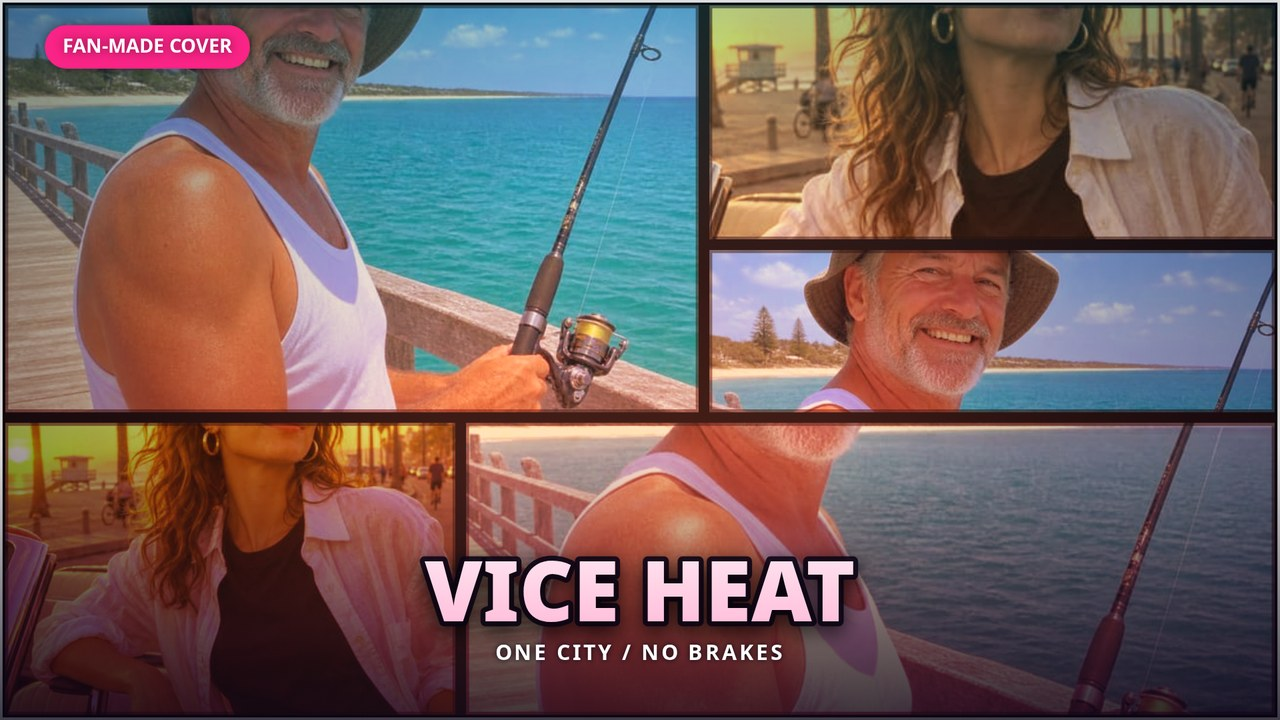
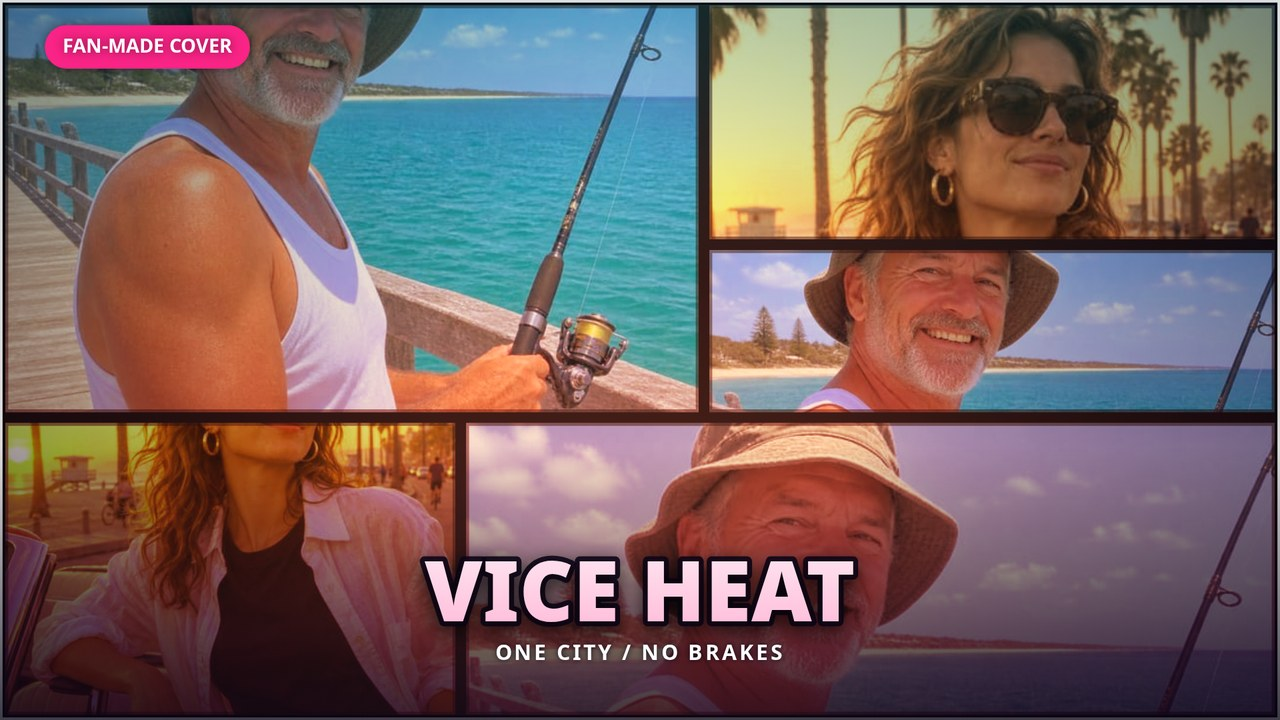
Show faces in collage panels, drop green cast in grid panel, regenerate screenshots

diff --git a/app/src/panels.js b/app/src/panels.js
@@ -16,8 +16,8 @@ export const PANEL_CROPS = {
   showcase: [{ zoom: 1, ox: 0, oy: 0, tone: 'normal' }],
   duo: [{ zoom: 1.05, ox: -.05, oy: -.03, tone: 'normal' }, { zoom: 1.12, ox: .06, oy: -.08, tone: 'warm' }],
   trio: [{ zoom: 1.22, ox: -.14, oy: -.12, tone: 'normal' }, { zoom: 1.05, ox: 0, oy: -.02, tone: 'warm' }, { zoom: 1.22, ox: .14, oy: -.12, tone: 'cool' }],
-  collage: [{ zoom: 1.02, ox: 0, oy: -.02, tone: 'normal' }, { zoom: 1.3, ox: .1, oy: -.18, tone: 'warm' }, { zoom: 1.15, ox: 0, oy: -.3, tone: 'normal' }, { zoom: 1.2, ox: -.05, oy: -.1, tone: 'cool' }, { zoom: 1.05, ox: 0, oy: 0, tone: 'warm' }],
-  grid6: [{ zoom: 1.18, ox: -.1, oy: -.14, tone: 'normal' }, { zoom: 1.08, ox: .05, oy: -.03, tone: 'warm' }, { zoom: 1.3, ox: .14, oy: -.16, tone: 'cool' }, { zoom: 1.26, ox: .1, oy: .02, tone: 'warm' }, { zoom: 1.03, ox: 0, oy: -.04, tone: 'normal' }, { zoom: 1.2, ox: -.12, oy: 0, tone: 'cool' }]
+  collage: [{ zoom: 1.02, ox: 0, oy: -.02, tone: 'normal' }, { zoom: 1.3, ox: .1, oy: -.4, tone: 'warm' }, { zoom: 1.15, ox: 0, oy: -.3, tone: 'normal' }, { zoom: 1.2, ox: -.05, oy: -.1, tone: 'cool' }, { zoom: 1.05, ox: 0, oy: -.4, tone: 'warm' }],
+  grid6: [{ zoom: 1.18, ox: -.1, oy: -.14, tone: 'normal' }, { zoom: 1.08, ox: .05, oy: -.03, tone: 'warm' }, { zoom: 1.55, ox: .1, oy: -.3, tone: 'normal' }, { zoom: 1.26, ox: .1, oy: .02, tone: 'warm' }, { zoom: 1.03, ox: 0, oy: -.04, tone: 'normal' }, { zoom: 1.2, ox: -.12, oy: 0, tone: 'cool' }]
 };
 
 export function panelCrop(layout, i) {
